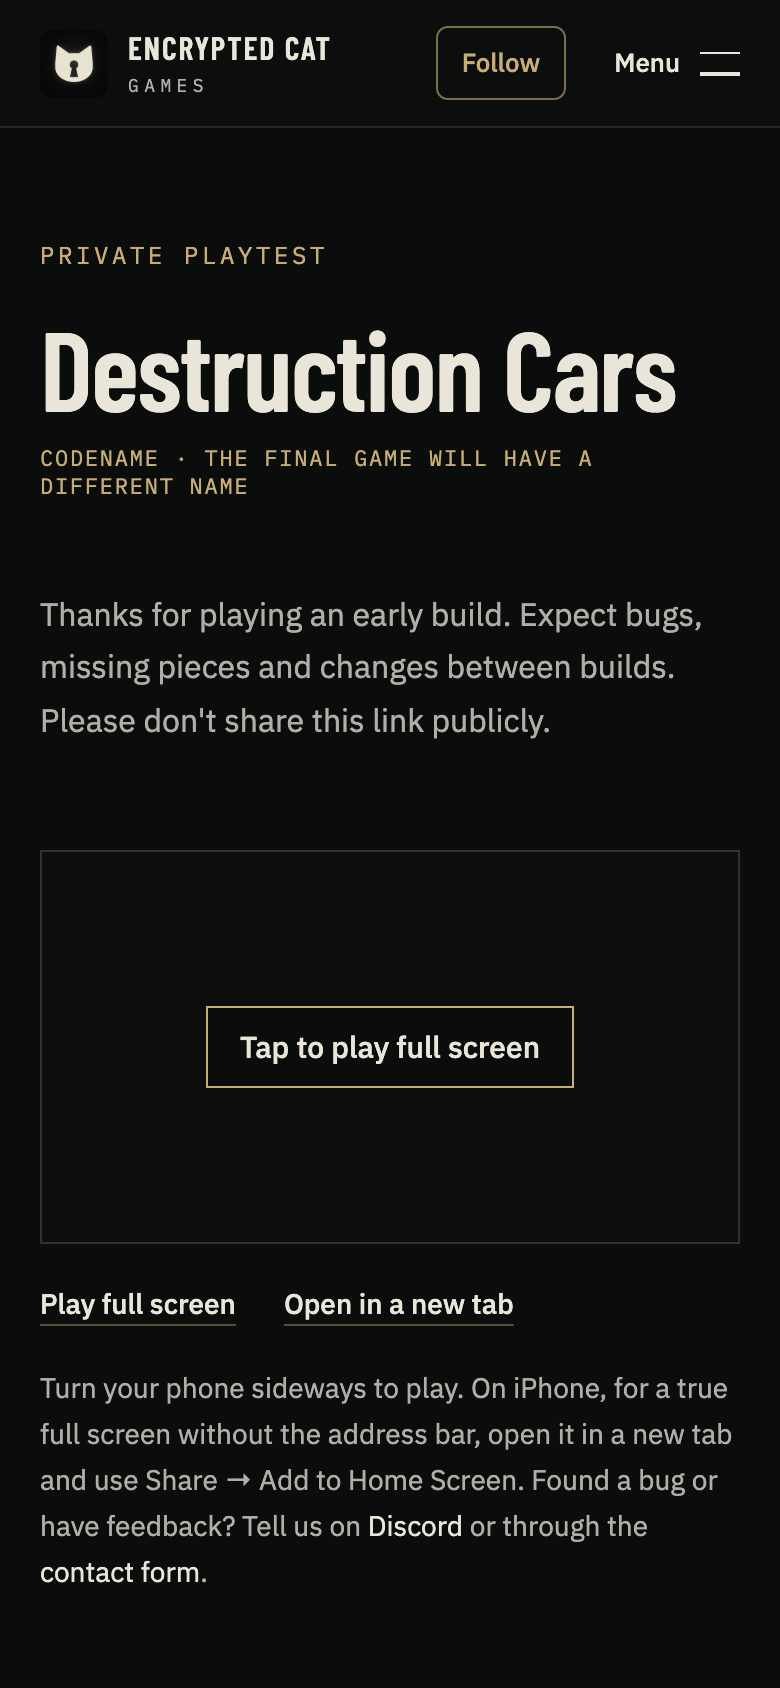
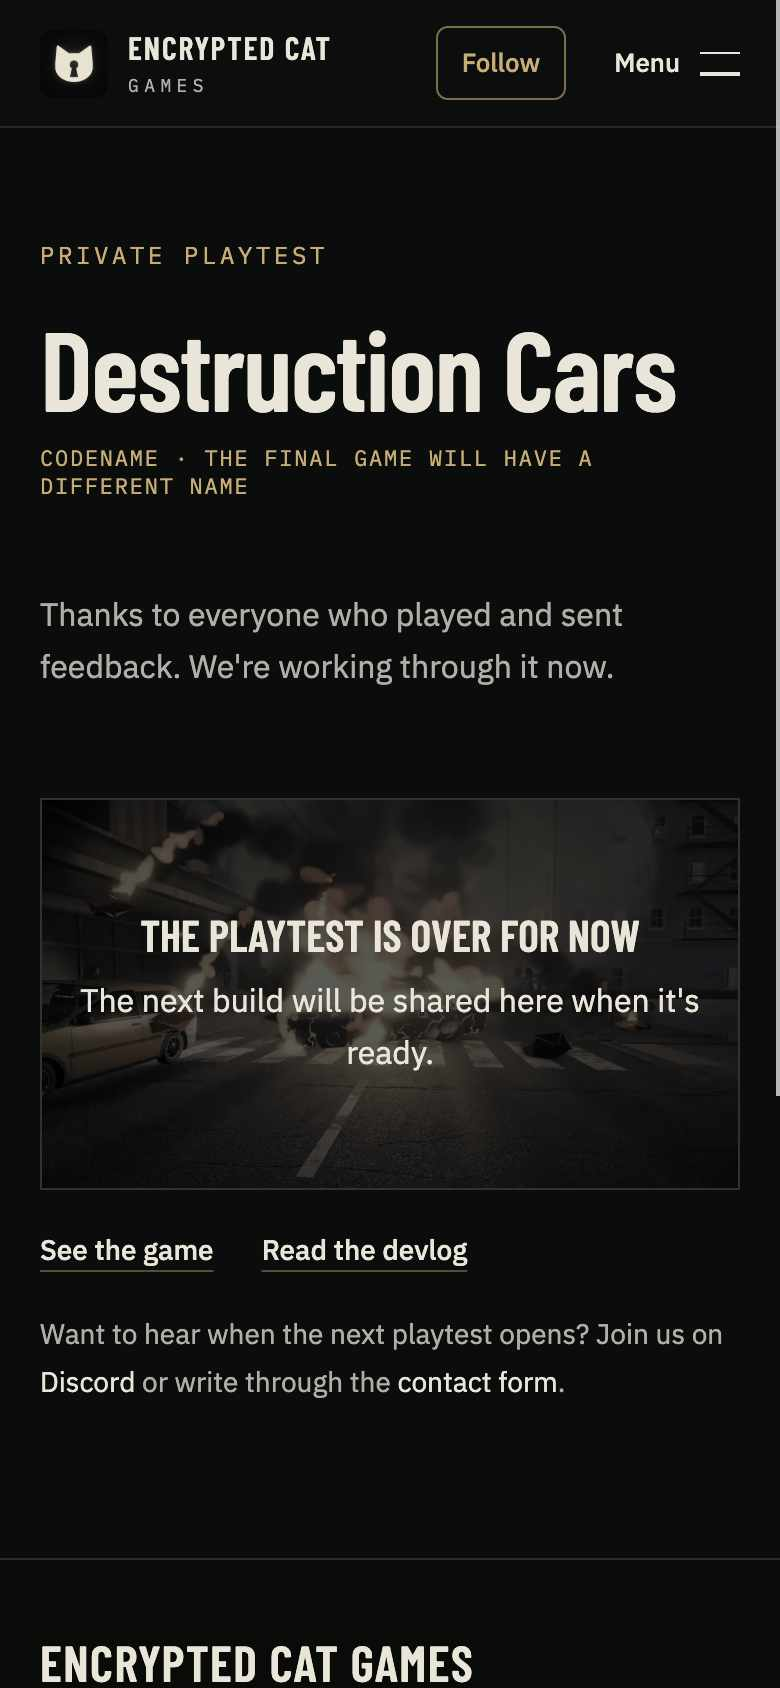
Destruction Cars playtest page: the playtest is over for now
The build is no longer embedded; the dimmed cover says the playtest is
over for now, with links to the game, its devlog, Discord and contact.

diff --git a/src/styles/global.css b/src/styles/global.css
@@ -1914,86 +1914,46 @@ textarea::placeholder {
 .playtest-note {
   color: var(--muted);
 }
-.playtest-frame {
+/* The playtest is over for now: the cover, dimmed, stands where the build was. */
+.playtest-closed {
   position: relative;
   aspect-ratio: 16 / 9;
-  max-height: calc(100svh - 120px);
-  width: 100%;
+  overflow: hidden;
   background: #000;
   border: 1px solid var(--line);
 }
-.playtest-frame iframe {
+.playtest-closed img {
   display: block;
   width: 100%;
   height: 100%;
-  border: 0;
+  object-fit: cover;
+  opacity: 0.35;
+  filter: grayscale(0.6);
 }
-/* On touch screens the inline game is too small to play: a tap expands it. */
-.playtest-tap,
-.playtest-exit {
-  display: none;
-}
-@media (pointer: coarse) {
-  .playtest-tap {
-    position: absolute;
-    inset: 0;
-    display: grid;
-    place-items: center;
-    border: 0;
-    background: #0b0c0c99;
-    color: var(--text);
-    font: 500 15px var(--body);
-    cursor: pointer;
-  }
-  .playtest-tap span {
-    padding: 10px 16px;
-    border: 1px solid var(--accent);
-    background: var(--bg);
-  }
-}
-.playtest-frame.is-expanded {
-  position: fixed;
-  inset: 0;
-  z-index: 1000;
-  width: 100vw;
-  height: 100vh;
-  height: 100dvh;
-  max-height: none;
-  aspect-ratio: auto;
-  border: 0;
-}
-.playtest-frame.is-expanded .playtest-tap {
-  display: none;
-}
-.playtest-frame.is-expanded .playtest-exit {
+.playtest-closed-copy {
   position: absolute;
-  top: max(8px, env(safe-area-inset-top));
-  left: max(8px, env(safe-area-inset-left));
-  display: block;
-  padding: 4px 8px;
-  opacity: 0.75;
-  border: 1px solid #ffffff33;
-  border-radius: 4px;
-  background: #000000aa;
-  color: #fff;
-  font: 12px var(--mono);
-  cursor: pointer;
+  inset: 0;
+  display: flex;
+  flex-direction: column;
+  justify-content: center;
+  align-items: center;
+  gap: 8px;
+  padding: 16px;
+  text-align: center;
 }
-.playtest-lock,
-.playtest-lock body {
-  overflow: hidden;
+.playtest-closed-copy p {
+  margin: 0;
+  color: var(--text);
+}
+.playtest-closed-title {
+  font: 700 clamp(22px, 4vw, 40px) / 1.1 var(--display);
+  text-transform: uppercase;
 }
 .playtest-actions {
   display: flex;
   flex-wrap: wrap;
   gap: 8px 24px;
   margin-top: 16px;
-}
-button.text-link {
-  background: none;
-  border: 0;
-  padding-inline: 0;
-  cursor: pointer;
 }
 .playtest-note {
   max-width: 720px;
